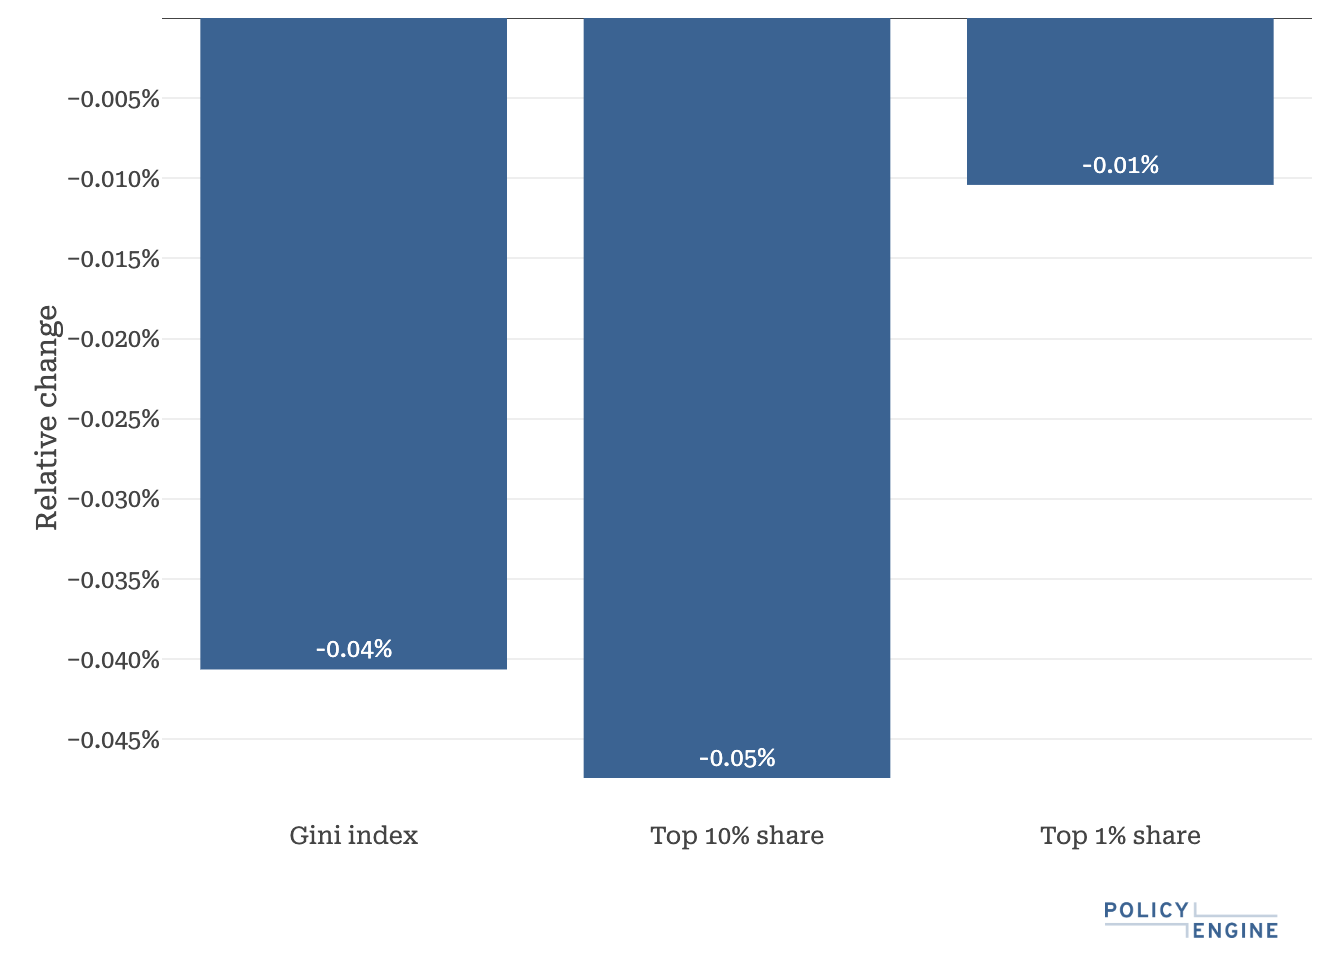
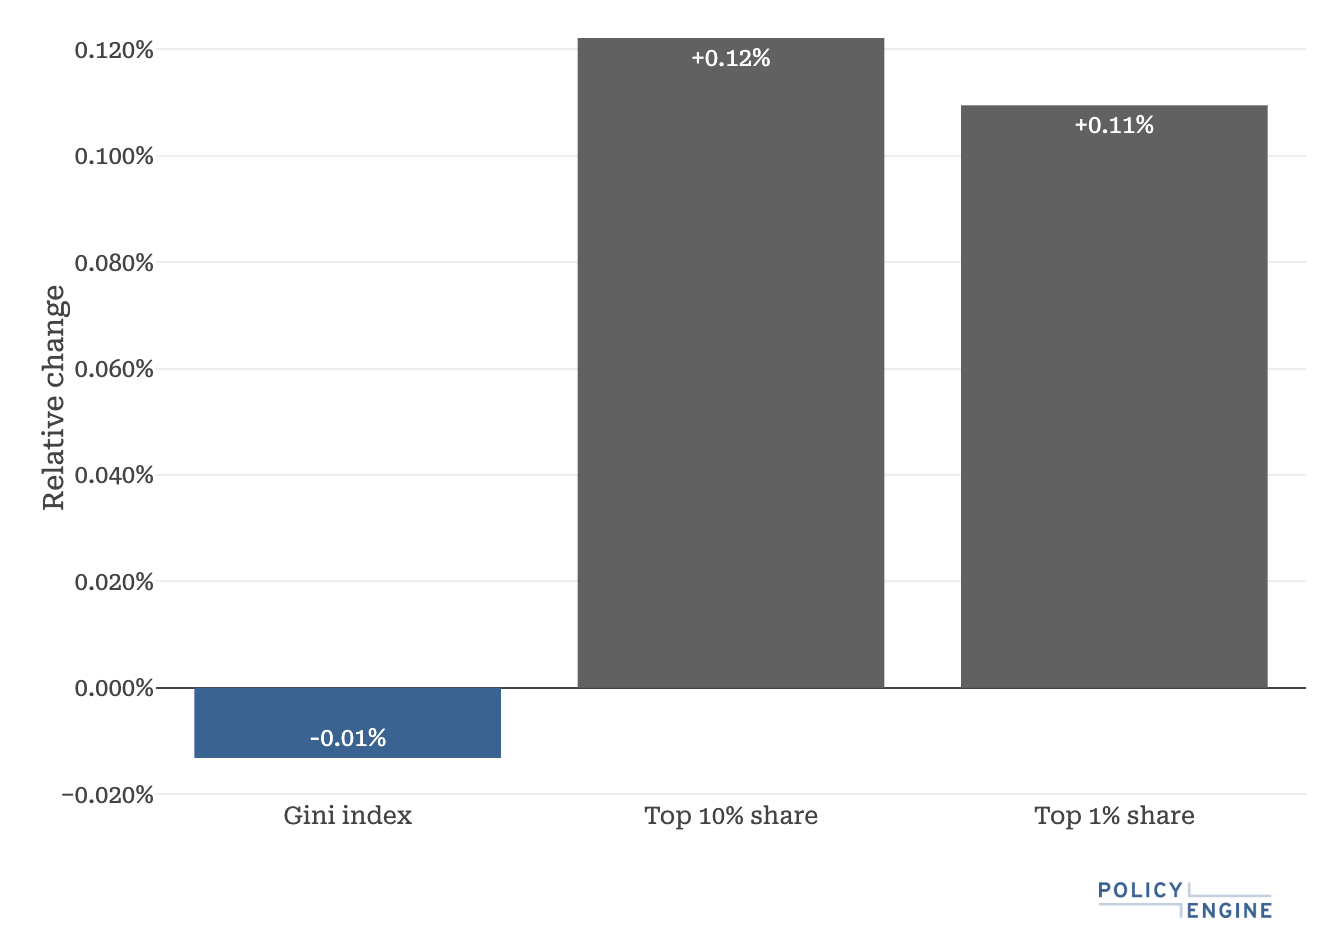
make-changes-vat-school-post

diff --git a/src/posts/articles/school-vat.md b/src/posts/articles/school-vat.md
@@ -1,9 +1,9 @@
 ## Key findings
 
-* We estimate a [£1.3 billion](https://policyengine.org/uk/policy?focus=policyOutput.inequalityImpact&reform=60649&region=uk&timePeriod=2025&baseline=1) revenue increase from Labour's proposal to raise the VAT rate on private schools to 20%.   
+* We estimate a [£1.5 billion](https://policyengine.org/uk/policy?focus=policyOutput.inequalityImpact&reform=60649&region=uk&timePeriod=2025&baseline=1) revenue increase from Labour's proposal to raise the VAT rate on private schools to 20%.   
 * Our analysis projects that Labour's proposal to remove tax exemptions from private schools would raise a total of £6.1 billion in tax revenue over the five-year period from FY2025 to FY2029.  
-* We estimate that the Gini index of income inequality would decrease slightly by 0.04% in FY2025.  
-* We also estimate that Labour's plan would lower net income for 2.8% of people.
+* We estimate that the Gini index of income inequality would decrease slightly by 0.01% in FY2025.  
+* We also estimate that Labour's plan would lower net income for 3.3% of people.
 
 ## Introduction
 
@@ -13,13 +13,13 @@ Labour has proposed a policy change aimed at reducing educational inequality and
 
 ### Budgetary impact
 
-PolicyEngine's static analysis[^1] of Labour's plan to remove tax exemptions from private schools estimates a budgetary impact of £1.3 billion. This aligns with the Institute for Fiscal Studies [(IFS)](https://ifs.org.uk/news/removing-tax-exemptions-private-schools-likely-have-little-effect-numbers-private-sector), which projects a £1.3-1.5 billion net gain to public finances per year.
+PolicyEngine's static analysis[^1] of Labour's plan to remove tax exemptions from private schools estimates a budgetary impact of £1.5 billion. This aligns with the Institute for Fiscal Studies [(IFS)](https://ifs.org.uk/news/removing-tax-exemptions-private-schools-likely-have-little-effect-numbers-private-sector), which projects a £1.3-1.5 billion net gain to public finances per year.
 
 The chart presents PolicyEngine's estimates of the effects of Labour's proposed VAT policy on private schools over the next five years. It shows projections for both the raised tax revenue and the percentage of people experiencing lower net income from FY2025 to FY2029.
 
 | Year | Budgetary impact (£ billion) | People affected (%) |
 | :---- | :---- | :---- |
-| 2025 | [1.3](https://policyengine.org/uk/policy?focus=policyOutput.inequalityImpact&reform=60649&region=uk&timePeriod=2025&baseline=1) | 2.8 |
+| 2025 | [1.5](https://policyengine.org/uk/policy?focus=policyOutput.inequalityImpact&reform=60649&region=uk&timePeriod=2025&baseline=1) | 3.3 |
 | 2026 | [1.0](https://policyengine.org/uk/policy?focus=policyOutput.inequalityImpact&reform=60649&region=uk&timePeriod=2026&baseline=1) | 2.7 |
 | 2027 | [1.2](https://policyengine.org/uk/policy?focus=policyOutput.inequalityImpact&reform=60649&region=uk&timePeriod=2027&baseline=1) | 3.1 |
 | 2028 | [1.3](https://policyengine.org/uk/policy?focus=policyOutput.inequalityImpact&reform=60649&region=uk&timePeriod=2028&baseline=1) | 2.5 |
@@ -35,7 +35,7 @@ Our analysis of Labour's proposal to remove tax exemptions from private schools 
 * Deciles 7-8: Upper-middle income groups are slightly affected, experiencing small but noticeable reductions in their net income.  
 * Deciles 9-10: The highest income households bear the brunt of the policy's impact, with the most significant reductions in net income, as they are the primary users of private schools.
 
-![](/images/posts/school_vat/gini-plot.png)
+![](/images/posts/school_vat/income.png)
 
 ### Winners and losers
 
@@ -45,12 +45,12 @@ Our analysis of Labour's plan reveals a targeted impact on household incomes acr
 
 ### Inequality impact
 
-Labour's proposal to remove tax exemptions from private schools is projected to have a modest impact on income inequality from FY2025. The Gini index, a common measure of income inequality, is projected to decrease by 0.04%. This suggests a slight overall reduction in income disparity across the population. The policy also appears to have a targeted impact on high-income groups, with the income share of the top 10% decreasing by 0.01%. The income share of the top 1% is also expected to decrease slightly by the same amount.
+Labour's proposal to remove tax exemptions from private schools is projected to have a modest impact on income inequality from FY2025. The Gini index, a common measure of income inequality, is projected to decrease by 0.01%. This suggests a slight overall reduction in income disparity across the population. The policy also appears to have a targeted impact on high-income groups, with the income share of the top 10% decreasing by 0.01%. The income share of the top 1% is also expected to decrease slightly by the same amount.
 
-![](/images/posts/school_vat/income.png)
+![](/images/posts/school_vat/gini-plot.png)
 
 ## Conclusion
 
-We estimate that Labour’s plan would raise £1.3 billion in revenue in FY2025, primarily affecting higher-income households, with 2.8% of the population experiencing a decrease in net income. It also would cause a modest reduction in income inequality, decreasing the Gini index by 0.04%. 
+We estimate that Labour’s plan would raise £1.5 billion in revenue in FY2025, primarily affecting higher-income households, with 3.3% of the population experiencing a decrease in net income. It also would cause a modest reduction in income inequality, decreasing the Gini index by 0.01%. 
 
 [^1]:  Our analysis does not account for potential long-term changes in consumer preferences that may result from applying different VAT rates. The analysis assumes static behavioural responses and does not model potential shifts in educational choices or school operations that might occur over time.
